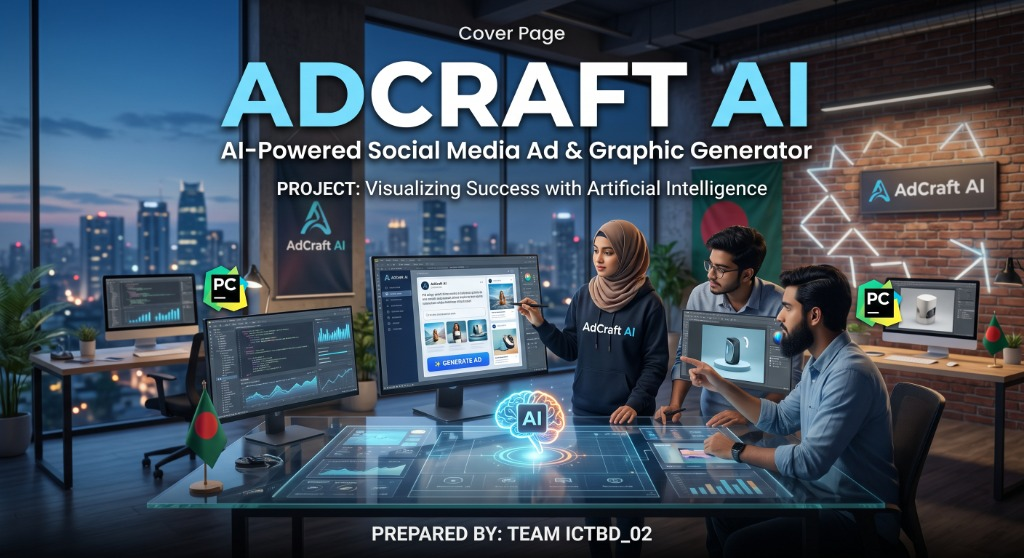
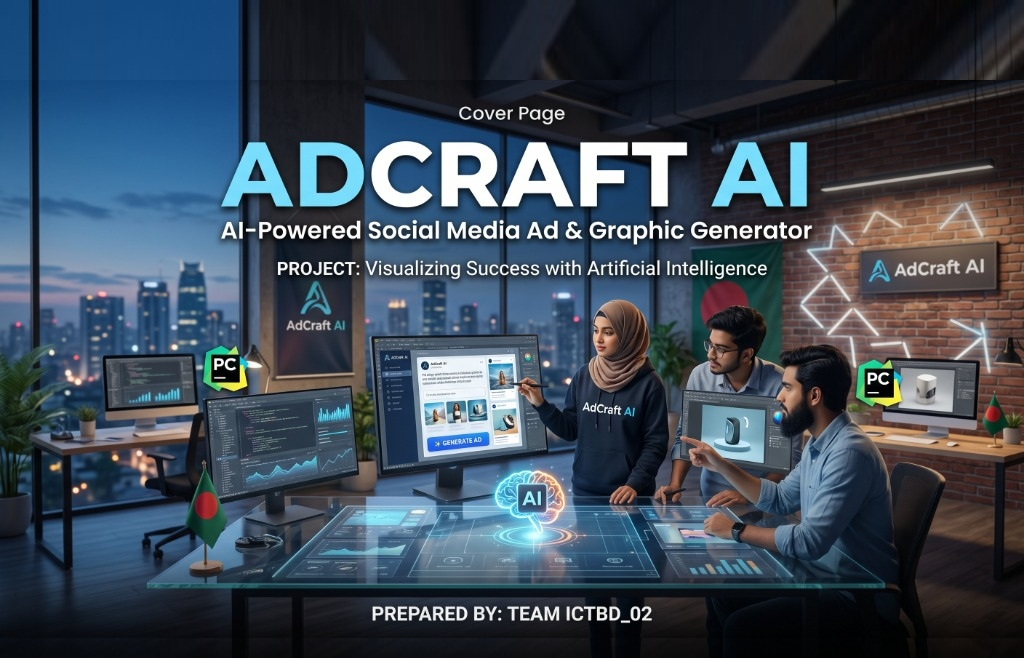
fix: adjust AdCraft AI card image padding and CSS object-position to prevent top cropping

diff --git a/style.css b/style.css
@@ -1125,6 +1125,8 @@ body{
 
   object-fit:cover;
 
+  object-position:center top;
+
   display:block;
 
   border-radius:20px 20px 0 0;

diff --git a/css/projects.css b/css/projects.css
@@ -112,6 +112,8 @@ a{
   height:220px;
 
   object-fit:cover;
+
+  object-position:center top;
 }
 
 .project-content{
